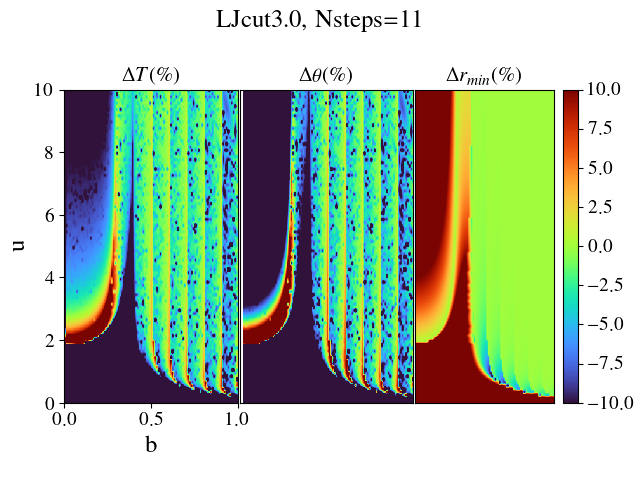
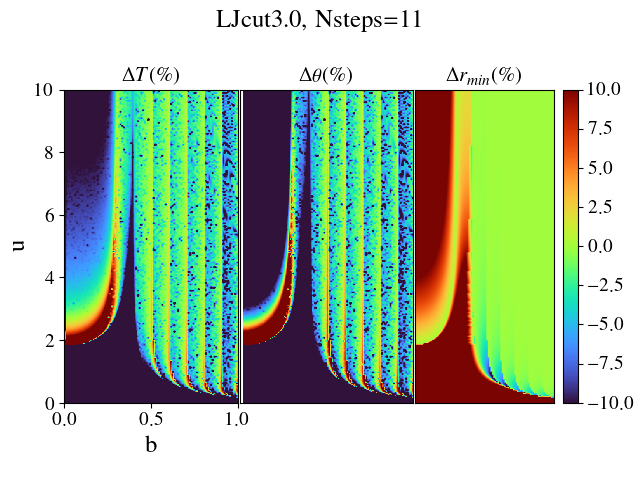
Fixed bugs in trajectory computation

diff --git a/Core/EndPointDeviation.cpp b/Core/EndPointDeviation.cpp
@@ -15,7 +15,7 @@ int main()
     std::ofstream epd("./epd_LJ_Nsteps_11.txt", std::ios::out);
     
     double m = 1.0, dr = 1e-6;
-    double umin = 1e-6, umax = 10.0, du = 0.1;
+    double umin = 1e-3, umax = 10.0, du = 0.05;
     double bmin = 0.0, bmax = 1.0, db = 0.01;
     
     Potential<double> V;    
@@ -54,8 +54,8 @@ int main()
             << std::endl;
         }
         auto elap = std::chrono::duration_cast<std::chrono::microseconds>(std::chrono::high_resolution_clock::now() - start);
-        std::cout << (u - umin) / (umax - umin) * 100.0 << "% done. Elapsed time (s) : " << elap.count()/1e6 << std::endl;
-        //std::cout << (u - umin) / (umax - umin) * 100.0 << "% done. Elapsed time (s) : " << elap.count()/1e6 << "\r";
+        //std::cout << (u - umin) / (umax - umin) * 100.0 << "% done. Elapsed time (s) : " << elap.count()/1e6 << std::endl;
+        std::cout << (u - umin) / (umax - umin) * 100.0 << "% done. Elapsed time (s) : " << elap.count()/1e6 << "\r";
     }
     epd.close();
     return 0;

diff --git a/Plots/EPD_analysis.py b/Plots/EPD_analysis.py
@@ -12,21 +12,21 @@ f.close()
 clim = [-10,10]
 
 plt.subplot(131)
-plt.imshow(np.reshape(data[:,7],(100,100)), origin='lower', extent=[0,1,0,10], aspect='auto')
+plt.imshow(np.reshape(data[:,7],(200,100)), origin='lower', extent=[0,1,0,10], aspect='auto')
 plt.xlabel('b')
 plt.ylabel('u')
 plt.title(r'$\Delta T (\%)$')
 plt.clim(clim)
 
 plt.subplot(132)
-plt.imshow(np.reshape(data[:,10],(100,100)), origin='lower', extent=[0,1,0,10], aspect='auto')
+plt.imshow(np.reshape(data[:,10],(200,100)), origin='lower', extent=[0,1,0,10], aspect='auto')
 plt.title(r'$\Delta \theta (\%)$')
 plt.xticks([])
 plt.yticks([])
 plt.clim(clim)
 
 plt.subplot(133)
-plt.imshow(np.reshape(data[:,4],(100,100)), origin='lower', extent=[0,1,0,10], aspect='auto')
+plt.imshow(np.reshape(data[:,4],(200,100)), origin='lower', extent=[0,1,0,10], aspect='auto')
 plt.title(r'$\Delta r_{min} (\%)$')
 plt.xticks([])
 plt.yticks([])
